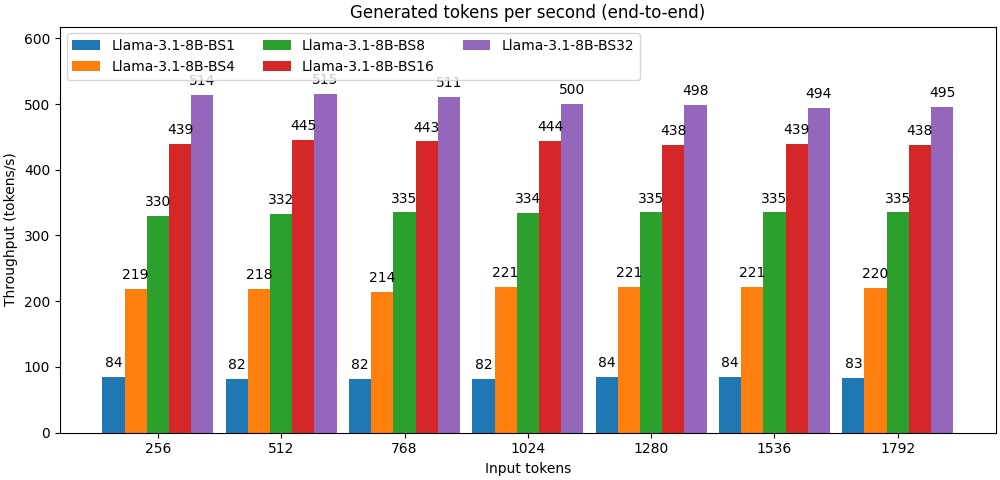
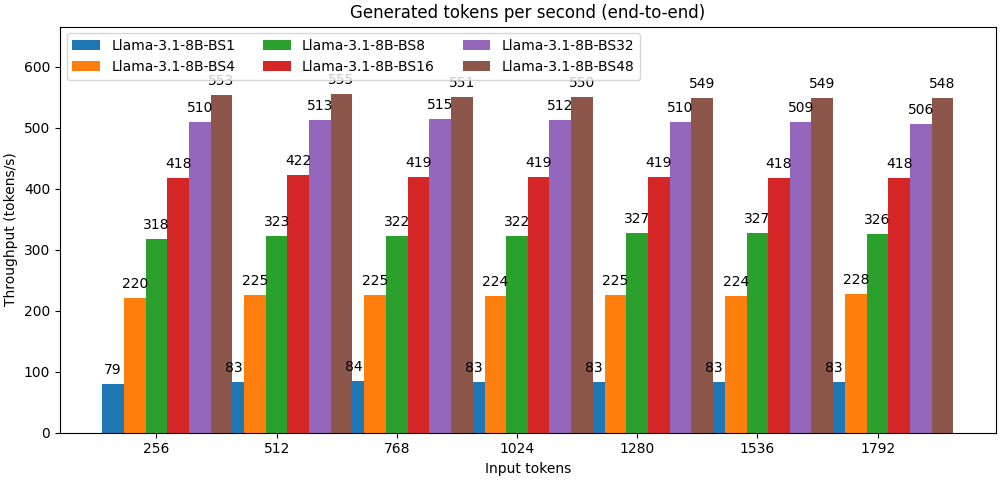
perf(llama): update 8B model static batching results

diff --git a/benchmark/text-generation/performance/llama3.1-8b.py b/benchmark/text-generation/performance/llama3.1-8b.py
@@ -13,12 +13,15 @@ def main():
     if num_cores < NUM_CORES:
         raise ValueError(f"This benchmark can only run on an instance with at least {NUM_CORES} cores.")
 
+    model_id = "unsloth/Llama-3.1-8B-Instruct"
+
     model_configurations = {
-        "Llama-3.1-8B-BS1": ["meta-llama/Meta-Llama-3.1-8B", 1, 4096],
-        "Llama-3.1-8B-BS4": ["meta-llama/Meta-Llama-3.1-8B", 4, 4096],
-        "Llama-3.1-8B-BS8": ["meta-llama/Meta-Llama-3.1-8B", 8, 4096],
-        "Llama-3.1-8B-BS16": ["meta-llama/Meta-Llama-3.1-8B", 16, 4096],
-        "Llama-3.1-8B-BS32": ["meta-llama/Meta-Llama-3.1-8B", 32, 4096],
+        "Llama-3.1-8B-BS1": [model_id, 1, 4096],
+        "Llama-3.1-8B-BS4": [model_id, 4, 4096],
+        "Llama-3.1-8B-BS8": [model_id, 8, 4096],
+        "Llama-3.1-8B-BS16": [model_id, 16, 4096],
+        "Llama-3.1-8B-BS32": [model_id, 32, 4096],
+        "Llama-3.1-8B-BS48": [model_id, 48, 4096],
     }
 
     for model_name, model_configuration in model_configurations.items():
